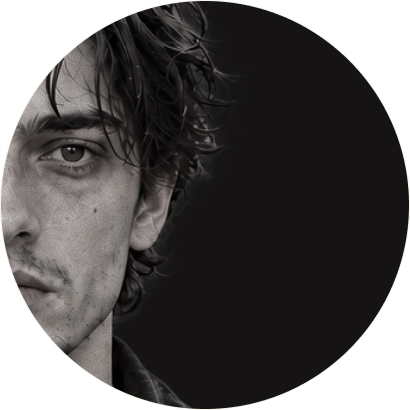
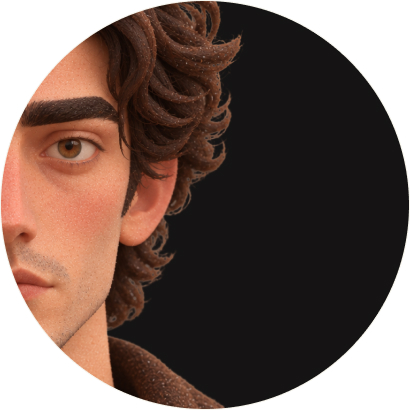
Update conversation character artwork

diff --git a/src/scenes/conversation/style.css b/src/scenes/conversation/style.css
@@ -70,3 +70,19 @@
   .conversation-phrases__hint{top:13%;right:5%;max-width:40%;white-space:normal;font-size:10px;line-height:1.1}
   .conversation-phrases__no-talk{right:5%;bottom:4%;font-size:10px;padding:13px 15px}
 }
+
+/* Updated character art and name placement; all copy and motion stay unchanged. */
+@media (min-width:701px){
+  .conversation-alice__figure{height:81%;left:0}
+  .conversation-person-name--alice{top:auto;bottom:5%;left:30%}
+  .conversation-igor__figure{height:80%;right:0}
+  .conversation-person-name--igor{top:auto;bottom:5%;right:26%}
+  .conversation-phrases__figure{height:68%}
+}
+@media (max-width:700px){
+  .conversation-alice__figure{height:58%;left:-4%}
+  .conversation-person-name--alice{top:auto;bottom:3%;left:55%}
+  .conversation-igor__figure{height:58%;right:-5%}
+  .conversation-person-name--igor{top:auto;bottom:3%;right:55%}
+  .conversation-phrases__figure{height:55%}
+}

diff --git a/src/scenes/conversation/index.js b/src/scenes/conversation/index.js
@@ -56,7 +56,7 @@ export function renderConversation(app) {
         <p class="conversation-phrases__hint">можно выбрать несколько вариантов</p>
         <div class="conversation-phrases__field">
           ${phrases.map((phrase, index) => `<button class="conversation-phrase" type="button" aria-pressed="false" style="--x:${phrase.x}%;--y:${phrase.y}%;--i:${index}" data-phrase="${index}">${phrase.text}</button>`).join('')}
-          <img class="conversation-phrases__figure" src="${asset}igor.png" alt="">
+          <img class="conversation-phrases__figure" src="${asset}alice-igor.png" alt="">
         </div>
         <button class="conversation-phrases__no-talk" type="button">мы ещё не говорили об игре</button>
         <button class="conversation-button conversation-phrases__next" type="button">далее</button>
